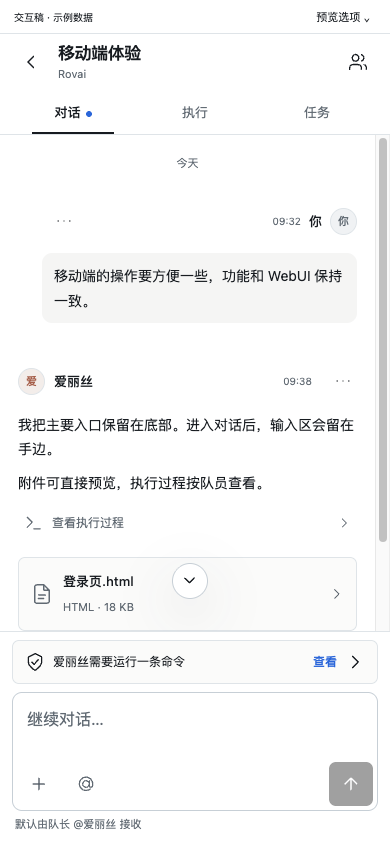
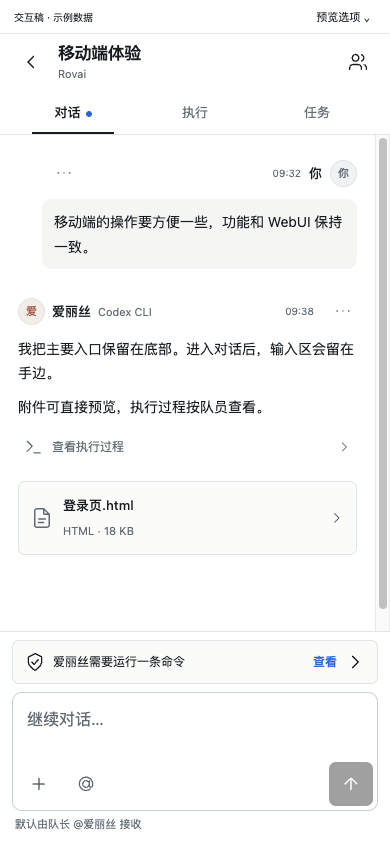
docs: align mobile run history, compact lists and task creation

diff --git a/docs/ui/host-web-mobile.md b/docs/ui/host-web-mobile.md
@@ -12,7 +12,7 @@ last_updated: 2026-09-14
 分支合并提交 `59249423`；对照已经具备发送、编辑、执行和管理能力的正式 WebUI，当前网络合同见
 [Host Web v2](../contracts/host-web-v2.md)。早期只读稿不再代表本稿范围。
 
-第三稿继承 25 项收敛，继续优化无底色新建图标、项目多会话分页、单一执行队员与页眉。
+第四稿继承前稿收敛，压缩会话列表、移除日期与聚焦装饰，并对齐 Desktop 的连续 Run、任务字段和设置图标。
 前轮“远程连接”分组已同步修改共享生产导航；本轮只调整 Mobile 交互稿。
 交付为 Camp 附件中的单文件 `rovai-mobile.html`。消息、发布、文件和更新均为示例，不连接 Host，不改
 已安装 App，不代表生产 Mobile 或实体手机验收。本地原型按[仓库规则](../README.md#本地原型)保持忽略，
@@ -23,14 +23,16 @@ last_updated: 2026-09-14
 采用 UI-UX-Pro-Max 的触摸、导航、键盘与焦点指导；视觉以 [DESIGN](../../DESIGN.md) 和正式
 [theme.css](../../packages/ui/src/theme.css) 为准：Porcelain Day / Steel Night、完整 Rovai 标志、原生字体、
 平面列表与轻分隔。按本轮明确要求，Mobile 页面阅读面使用白 / 黑背景；其余品牌、身份、证据与控件继续
-使用既有语义 token。此处不改变 Desktop 主题。手机根页面与项目行的新建入口使用无底色的圆圈加号，
-保留 44px 触摸区域；弹窗内“新建”等提交按钮继续使用既有会话主操作 token。
+使用既有语义 token。此处不改变 Desktop 主题。手机根页面的新建入口使用无底色圆圈加号，项目级使用普通
+加号，均保留 44px 触摸区域；弹窗内“新建”等提交按钮继续使用既有会话主操作 token。
 
 根页面使用五个带文字的底部入口：对话、队员、记忆、定时、设置。详情页一个返回按钮，返回恢复阅读位置；
 普通页面顶部只显示页面标题和操作，没有重复的 logo、品牌行或 slogan；登录与关于保留必要品牌识别。
 设置没有桌面的折叠、后退、前进三按钮。进入对话后移除全局底栏，把空间留给输入。
 对话内通过“对话 / 执行 / 任务”切换，不把 Tab 切换压入返回历史；标题返回始终退出到对话列表。
-项目打开和搜索收为标题旁的小图标，搜索点开后才显示输入框；会话行只保留较小标题、时间与蓝色新动态点。
+项目打开和搜索收为标题旁的小图标，搜索点开后才显示输入框；会话行只保留较小标题与蓝色新动态点，
+连续排布、无行间分隔线和额外空行，行高 44px。不显示列表日期和“今天 / 昨天”分组；消息保留自身时间。
+设置齿轮直接对照生产 `NavigationIcon`，不再使用前稿不规则轮廓。
 
 项目图标采用正式 CampNavigation 的圆角文件夹开合轮廓；对照过 [Lucide Folder Open](https://lucide.dev/icons/folder-open)
 与 [Circle Plus](https://lucide.dev/icons/circle-plus) 的线性图标形态，未引入图标依赖。稿中 Rovai 项目放入 11 个
@@ -40,10 +42,12 @@ last_updated: 2026-09-14
 
 发送区与保存操作位于底部；拍照、照片图库和文件选择分别可达，文件添加面板没有“引用当前附件”。
 不设置独立接收者按钮和发送旁的更多菜单；文件右侧提供 @ 入口，默认接收提示沿用生产 Composer。
-用户消息靠右，队员消息靠左。消息菜单保留显式“引用回复”，不模拟手机系统选区的部分引用。
+用户消息靠右，队员消息靠左；队员名后显示 Runtime 名称，例如“爱丽丝 · Codex CLI”，与 WebUI 对齐。
+消息菜单保留显式“引用回复”，不模拟手机系统选区的部分引用。
 HTML 先展示可交互内容，源码作为次级
 视图。消息操作显式可点，不依赖悬停或长按。产品触摸目标至少 44px，输入 16px，处理 safe area 与可视
-视口变化，提供可见焦点和减少动效。真实软键盘、系统相机和后台恢复仍需设备验收。
+视口变化。按用户要求和 DESIGN，移除输入黑框、焦点描边和光晕，保留 DOM 焦点、输入、键盘与弹窗操作；
+控件本身的静态边界和选中状态继续可辨。支持减少动效。真实软键盘、系统相机和后台恢复仍需设备验收。
 
 ## 功能对照
 
@@ -52,8 +56,8 @@ HTML 先展示可交互内容，源码作为次级
 | 对话与项目 | 置顶、项目、快速对话、按需搜索、Host 目录选择；默认队伍、带头像的队长、折叠可选名称和一键创建开关 | CampNavigation、NewConversationDialog、GeneralSettings |
 | 消息与 Composer | 正文、引用、附件、@、默认接收提示、发送；不消费发送期间后来输入 | CampWorkspace、Composer 与既有草稿/命令机制 |
 | 私聊 | 从当前队员进入独立私聊，与公共对话分别保留草稿 | SingleChatPanel |
-| 执行与审批 | 各队员独立状态、当前指令、分组、Compact、完整输出和停止；审批在对话页处理 | ExecutionToolGroup、RunningText、执行窗口、审批 Dock |
-| 任务 | 对话内列表、详情、负责人、状态与验收要求编辑 | 现有 Task 列表与详情 |
+| 执行与审批 | 自动换行头像、每队员连续 Run、逐 Run/组/命令独立展开、运行高亮、Compact、输出与停止；审批在对话页 | ExecutionAvatarRail 的头像语义、ExecutionStatusGlyph、ExecutionToolGroup、RunningText、执行窗口、审批 Dock |
+| 任务 | 新建只有标题、说明、有序验收条件与负责人；详情分别呈现，编辑才有状态 | TaskFields 的 showStatus / requireAssignee 与现有 Task 列表详情 |
 | 附件 | HTML 预览/源码、Markdown/文本、引用与下载 | 共享 FilePreview / Viewer 与浏览器资源适配 |
 | 队员 | 身份、职责；页内 Runtime、模型、推理强度、权限，运行时选择带正式图标；无 Skills/MCP 配置入口 | MemberManagement、MemberRuntimeParameters |
 | 记忆 | 共同/队员/队员间、归属、审核、修订、停止沿用、恢复与遗忘 | MemoryLibrary |
@@ -66,6 +70,10 @@ HTML 先展示可交互内容，源码作为次级
 对话内队伍面板保留私聊和“+ 邀请”，不提供运行时管理；Mobile 不展示会话地图或全局通知铃铛。
 定时任务对照 `AutomationEditor` 的 `draft.memberId`，每个定义只选择一位执行队员，列表展示该队员头像与名称；
 前稿的“执行队伍”及多选页属于错误呈现，第三稿已移除，未增加新的多人定时执行能力。
+
+新建任务对照 `TaskFields` 的 `showStatus={mode === 'edit'}`：创建后为待处理，不让用户在创建时指定状态。
+说明和验收条件分别输入、保存、展示；验收条件每行一项、最多 12 项，负责人从当前会话队员选择。
+空标题、缺负责人或超出条目上限保留输入并提示；编辑继续保留既有状态项。
 
 字号交互参考 [Apple 的文字大小滑条](https://support.apple.com/en-za/guide/iphone/iphd6804774e/ios)和
 [Android 的字号与预览](https://support.google.com/accessibility/answer/11183305?hl=en)。原生 range 保留键盘操作，
@@ -93,9 +101,17 @@ Host 操作系统与手机平台分别处理；手机文件选择不能选择 Ho
 完成组只统计成功步骤，Compact 不计数，未知结果不伪造成功。
 
 收起且运行的组与 Compact 使用 2.4 秒一轮的静止文字高亮，展开后和终态静态，减少动效时关闭高亮。
-组先展开摘要，再按需展开完整输出。展开、收起和异步结果到达后保留 summary 的阅读位置；主动滚动解除
-锚点；“回到最新”沿用圆形向下图标。执行台按队员切换等待、运行、完成、停止与暂无执行，停止只影响所选
-队员；等待权限的执行引导回对话，权限表单不在执行 Tab 打开。稿中延迟只是示例，生产沿用共享阅读锚点与缓存机制。
+头像采用 Desktop 浮层的紧凑头像、状态角标与中性选中背景；手机改为自动多行，不保留横向滑条或翻页箭头。
+每位队员展示连续 Run 时间线，完成的 Run 默认收起为一行、当前 Run 默认展开，各自可独立开合；示例包含
+三次 Run。停止位于所选队员 Header，仅作用于当前 Run，保留历史与其他队员执行。
+
+运行中示例包含“正文 → 已完成 command 组 → 正文 → 当前 command 组”；读文件、修改文件、终端命令、
+组和状态图标对照 `ExecutionToolGroup` / `ExecutionStatusGlyph`。预览工具可推进示例当前命令，图标和高亮
+随之切换；Compact 有独立演示入口，不与执行中命令同时冒充活动步骤。
+
+组先展开摘要，再按需展开完整输出。每个 Run 与组的展开状态按会话、队员和 Run 分开保存，切换队员或刷新
+保留；展开、收起和异步结果到达后保留 summary 的阅读位置。主动滚动解除锚点，“回到最新”沿用圆形向下图标。
+等待权限的执行引导回对话，权限表单不在执行 Tab 打开。稿中延迟只是示例，生产沿用共享阅读锚点与缓存机制。
 
 ## 两种部署
 

diff --git a/docs/ui/README.md b/docs/ui/README.md
@@ -54,7 +54,7 @@ MCP 与 Skills 的列表/详情、导入、启停和拖拽合同见 [Capability 
 - [设置 · 远程连接交互稿](host-remote-connection.md)：正式设置菜单及同组件交互稿，含本机管理、地址发现、令牌重复读取与浏览器连接状态。
 - [Desktop/Web 宽屏对照稿](host-web-parity.md)：阶段 1–3 当前收敛入口，行为差异表、生产组件 fixture 与实际验收边界。
 - [Host Web 与 Mobile 交互提案](host-web-mobile.md)：沿用现有视觉系统，第五阶段先供交互评审；不是生产 Mobile 能力。
-  2026-09-14 第三稿补齐项目多会话分页、单一执行队员和简洁页眉，继承前稿收敛；Server 有更新入口，Desktop 托管没有更新。
+  2026-09-14 第四稿对齐连续 Run、任务字段和设置图标，压缩列表并移除日期与聚焦装饰；Server 有更新入口，Desktop 托管没有更新。
 
 ## 平台差异
 
